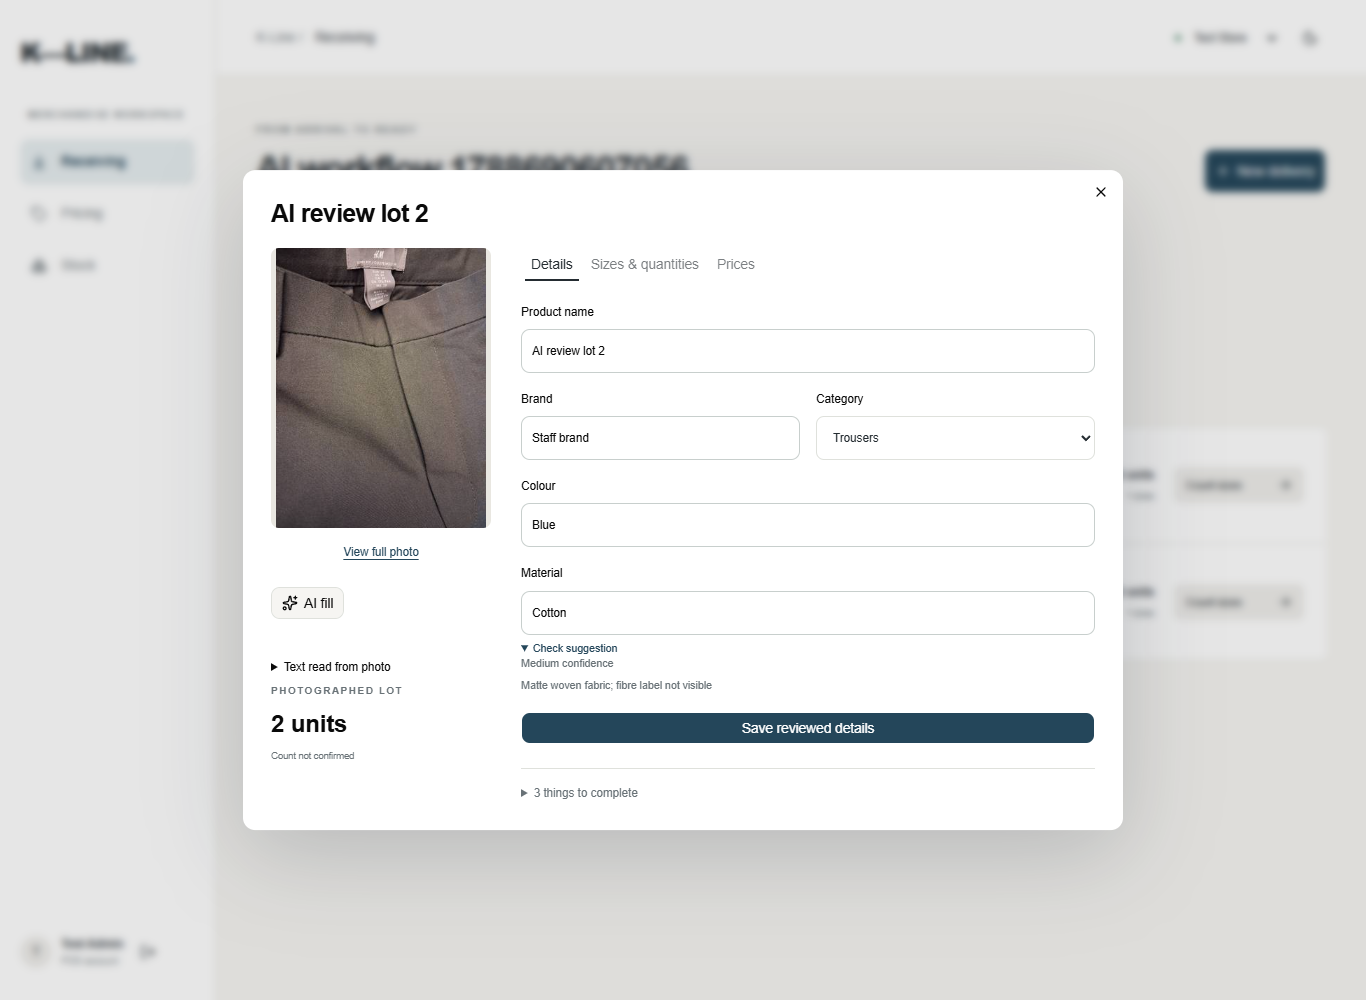
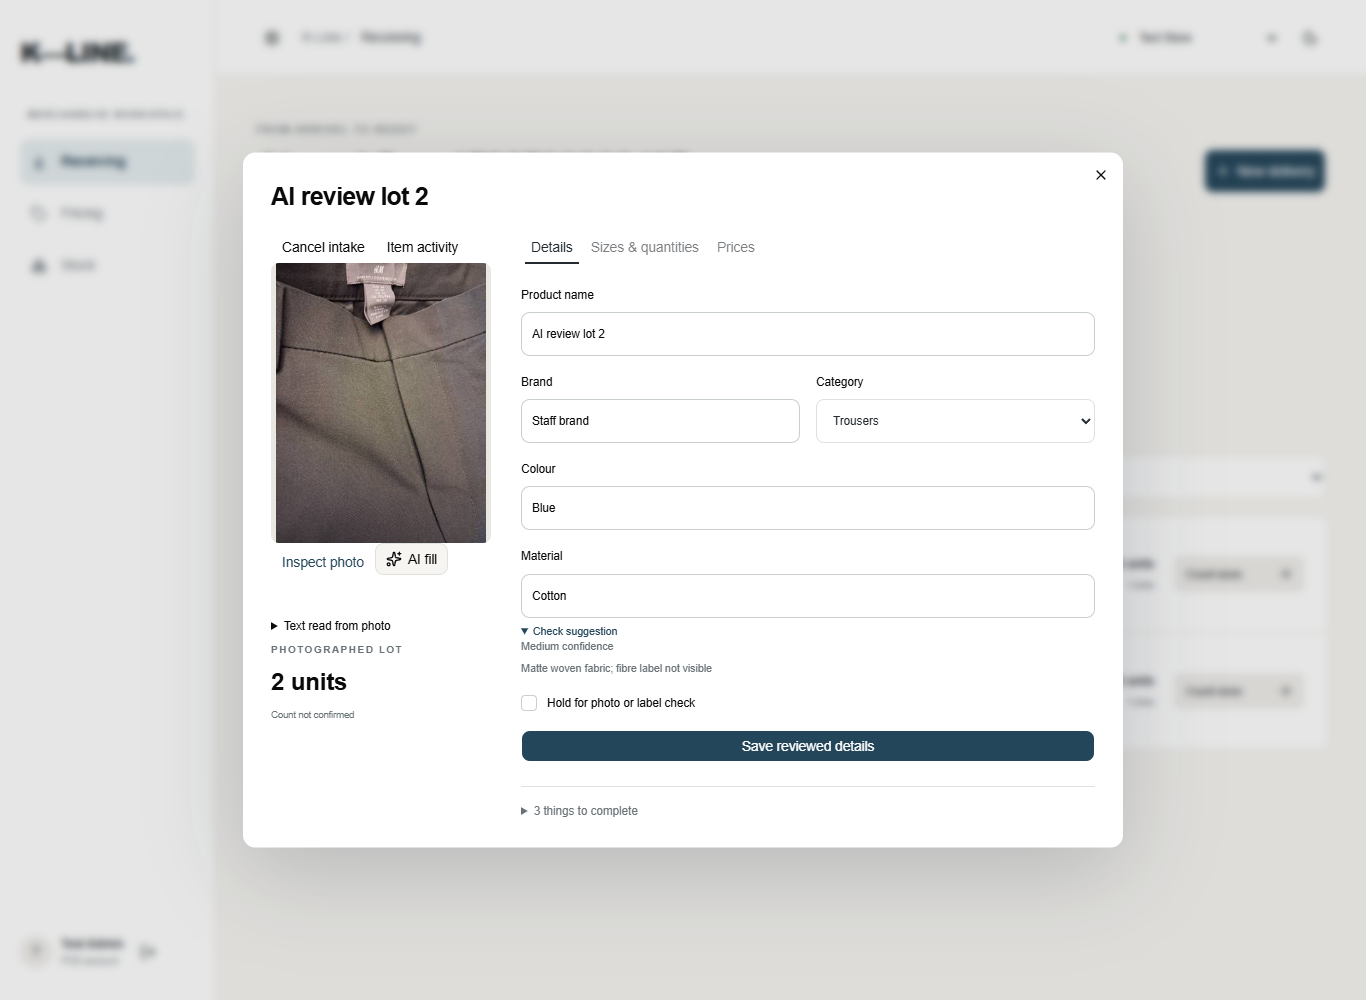
Recover abandoned AI jobs without repeating paid work

diff --git a/app/components/draft-editor.tsx b/app/components/draft-editor.tsx
@@ -336,10 +336,18 @@ export function DraftEditor({
                   <Button
                     variant="outline"
                     disabled={busy || dirty}
-                    onClick={() => {
+                    onClick={async () => {
                       setCheckAiProgress(false);
                       setError('');
-                      detail.refresh();
+                      setBusy(true);
+                      try {
+                        await postPos(`/catalog-workspace/items/${itemId}/ai-recovery`, branch, {});
+                        detail.refresh();
+                      } catch (cause) {
+                        setError((cause as Error).message);
+                      } finally {
+                        setBusy(false);
+                      }
                     }}
                   >
                     Check saved progress

diff --git a/app/components/ai-fill.tsx b/app/components/ai-fill.tsx
@@ -173,7 +173,22 @@ export function AiFill({
             Stop after this photo
           </Button>
         ) : unresolved ? (
-          <Button disabled={loading} onClick={() => setRevision((value) => value + 1)}>
+          <Button
+            disabled={loading}
+            onClick={async () => {
+              setLoading(true);
+              setError('');
+              try {
+                for (const item of items)
+                  await postPos(`/catalog-workspace/items/${item.id}/ai-recovery`, branch, {});
+                setRevision((value) => value + 1);
+              } catch (cause) {
+                setError((cause as Error).message);
+              } finally {
+                setLoading(false);
+              }
+            }}
+          >
             Check saved progress
           </Button>
         ) : (

diff --git a/COMPLETION_CHECKLIST.md b/COMPLETION_CHECKLIST.md
@@ -30,7 +30,7 @@ Updated: 6 September 2026. This is our working source of truth. Update it after 
 - [x] R11a Select individual or multiple photographed lots and explicitly run AI fill; show progress and per-lot results, stop after the current photo and resume remaining work.
 - [x] R11b Review uncertain suggestions with evidence beside editable fields; correct/confirm details and separately confirm physical quantities. Review is revision-checked and audited; original observations remain historical.
 - [x] R11c Protect existing/unsaved edits, check persisted job outcomes after failures and reconcile a lost response without automatically repeating a paid request. Verified with real POS/PostgreSQL and a deterministic provider boundary.
-- [ ] R11d Verify configured AI assistance with the real provider in staging, including confidence quality, staff usability and recovery of jobs left running by a server restart. Deterministic provider fixtures do not complete this acceptance.
+- [ ] R11d Real-provider confidence quality and staff acceptance remain staging gates. Local abandoned-job recovery is implemented: explicit progress check retires runs older than 15 minutes, prevents duplicate active attempts and rejects late results. Package 0.15.0; 33 focused tests and AI browser workflow pass.
 - [ ] R12 Physical-device capture/install/share acceptance remains. Browser offline/reconnection passes; real 401 recovery preserves unsaved input and branch through same-account login, and navigation guards retain/discard unsaved pricing explicitly. See `verification/session-navigation.json` and `verification/pwa-share.json`.
 - [x] R13 Camera/burst intake, native fallback, large-image preparation, non-destructive duplicate warnings and install/share/offline/update support implemented. Six capture/queue and seven actual service-worker checks pass. See `docs/phone-intake.md`; physical phone quality and OS integration remain R12/G5.
 - [x] R14 Task/category filters and useful ordering run before pagination, preserving branch/delivery context and recoverable empty states. Package 0.12.0; 18 focused POS tests and mobile browser verification. See `verification/receiving-filters.json`.

diff --git a/docs/ai-fill-workflow.md b/docs/ai-fill-workflow.md
@@ -13,3 +13,7 @@ Suggested size distributions appear in Sizes & quantities. Staff still confirm p
 After a failed or uncertain response, the UI stops the queue and offers **Check saved progress**. It does not automatically repeat a potentially paid request. A saved success is reviewed; a recorded failure becomes an explicit retry choice. A still-running job remains visibly running. Server-restart/orphaned-job recovery and real-provider quality remain staging acceptance tasks, not guarantees inferred from the local fixture.
 
 Local verification uses real POS routes, permissions, job persistence, PostgreSQL and browser interactions. Only the external inference response is deterministic. It proves selection, stopping/retry, protected fields, evidence review, correction, quantity confirmation and lost-response reconciliation. It does not measure vision accuracy or spend a real provider request.
+
+## Interrupted server recovery
+
+Check saved progress explicitly closes AI runs older than 15 minutes as interrupted. This exceeds the current bounded provider maximum of five 120-second attempts plus backoff. It does not call the provider or erase attempt usage. Active runs cannot be started twice. Completion rechecks ownership under the item lock, so late provider results from closed runs cannot overwrite newer work. Review existing fields before an explicit retry. Package 0.15.0; 33 PostgreSQL tests and existing browser workflow pass. Live provider quality remains staging acceptance.

diff --git a/REVIEW_BRIEF.md b/REVIEW_BRIEF.md
@@ -104,3 +104,7 @@ Package 0.14.0 adds reviewed cancellation/restore and saved-phone cancellation, 
 ## R12 ? session and navigation recovery
 
 Expired authentication now opens same-account sign-in over the mounted workspace; draft input and active branch survive. Pricing/navigation guards distinguish unsaved work from in-flight writes. Real browser 401 and branch/destination discard/keep paths pass, as do TypeScript and lint. Physical phone acceptance remains open.
+
+## R11d ? abandoned AI attempts
+
+Explicit progress recovery closes stale running jobs after 15 minutes, audits recovery, blocks concurrent attempts and rejects late completion. Usage accounting remains retained. 33 focused POS tests, the complete AI browser flow, TypeScript/lint/build and seven-file installed package comparison pass. Existing unrelated AI service edits were left untouched.
